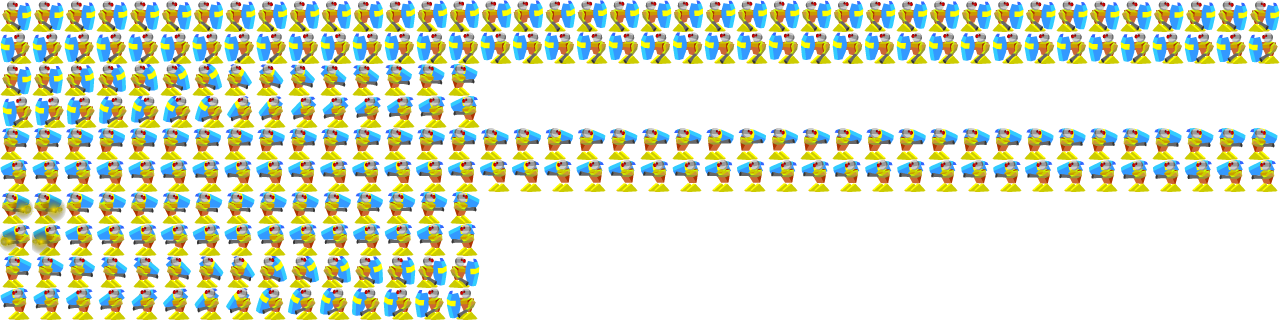
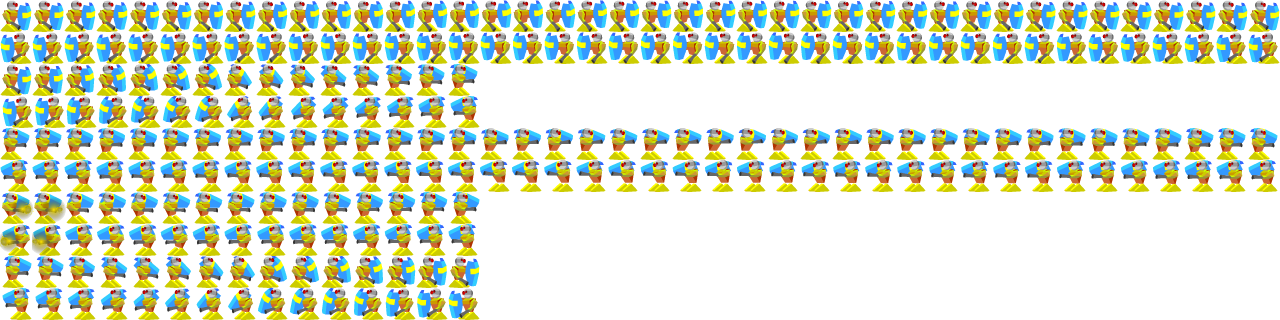
added shield dude

Changed region(s): [[0.0, 0.9062, 0.375, 1.0]]

diff --git a/MagnetBoy/MagnetBoy/MagnetBoy/ShieldDude.cs b/MagnetBoy/MagnetBoy/MagnetBoy/ShieldDude.cs
@@ -1,11 +1,212 @@
 using System;
 using System.Collections.Generic;
-using System.Linq;
 using System.Text;
+using Microsoft.Xna.Framework;
+using Microsoft.Xna.Framework.Graphics;
 
 namespace MagnetBoy
 {
-    class ShieldDude
+    class ShieldDude : Enemy
     {
+        private enum ShieldDudeState
+        {
+            DownShield,
+            UpShield,
+            MovingUp,
+            MovingDown,
+            Shooting
+        }
+
+        private ShieldDude.ShieldDudeState state;
+        private double stateTimePassed;
+        private bool facingRight;
+
+        public Vector2 ShieldDir
+        {
+            get
+            {
+                float theta = 0.0f;
+
+                if (state == ShieldDudeState.MovingUp || state == ShieldDudeState.MovingDown)
+                {
+                    theta = (float)(Math.PI / 4);
+                }
+                else if (state == ShieldDudeState.UpShield || state == ShieldDudeState.Shooting)
+                {
+                    theta = (float)(Math.PI / 2);
+                }
+
+                Vector2 dir = new Vector2((float)Math.Cos(theta), (float)Math.Sin(theta));
+
+                if (!facingRight)
+                {
+                    dir.X *= -1;
+                }
+
+                return dir;
+            }
+        }
+
+        public ShieldDude(float initalX, float initalY, bool isFacingRight) : base(initalX, initalY)
+        {
+            state = ShieldDudeState.DownShield;
+            stateTimePassed = 0;
+            facingRight = isFacingRight;
+
+            if (facingRight)
+            {
+                currentAnimation = "shieldGuyIdleRight";
+            }
+            else
+            {
+                currentAnimation = "shieldGuyIdleLeft";
+            }
+        }
+
+        protected override void enemyUpdate(GameTime currentTime)
+        {
+            //if statements are chosen over a switch so the programmer may use scope if needed
+            if (state == ShieldDudeState.DownShield)
+            {
+                stateTimePassed += currentTime.ElapsedGameTime.Milliseconds;
+
+                if (stateTimePassed > 3000)
+                {
+                    stateTimePassed = 0;
+
+                    state = ShieldDudeState.MovingUp;
+                    currentFrame = 0;
+                    lastFrameIncrement = currentTime.TotalGameTime.TotalMilliseconds;
+
+                    if (facingRight)
+                    {
+                        currentAnimation = "shieldGuyRaiseShieldRight";
+                    }
+                    else
+                    {
+                        currentAnimation = "shieldGuyRaiseShieldLeft";
+                    }
+                }
+            } //DownShield
+            else if (state == ShieldDudeState.UpShield)
+            {
+                stateTimePassed += currentTime.ElapsedGameTime.Milliseconds;
+
+                if (stateTimePassed > 10)
+                {
+                    stateTimePassed = 0;
+
+                    state = ShieldDudeState.Shooting;
+                    currentFrame = 0;
+                    lastFrameIncrement = currentTime.TotalGameTime.TotalMilliseconds;
+
+                    if (facingRight)
+                    {
+                        currentAnimation = "shieldGuyShootRight";
+                    }
+                    else
+                    {
+                        currentAnimation = "shieldGuyShootLeft";
+                    }
+                }
+            } //UpShield
+            else if (state == ShieldDudeState.MovingUp)
+            {
+                stateTimePassed += currentTime.ElapsedGameTime.Milliseconds;
+
+                if (stateTimePassed >= AnimationFactory.getAnimationFrameCount(currentAnimation) * AnimationFactory.getAnimationSpeed(currentAnimation) - 50)
+                {
+                    stateTimePassed = 0;
+
+                    state = ShieldDudeState.UpShield;
+                    currentFrame = 0;
+                    lastFrameIncrement = currentTime.TotalGameTime.TotalMilliseconds;
+
+                    if (facingRight)
+                    {
+                        currentAnimation = "shieldGuyRaisedIdleRight";
+                    }
+                    else
+                    {
+                        currentAnimation = "shieldGuyRaisedIdleLeft";
+                    }
+                }
+            } //MovingUp
+            else if (state == ShieldDudeState.MovingDown)
+            {
+                stateTimePassed += currentTime.ElapsedGameTime.Milliseconds;
+
+                if (stateTimePassed >= AnimationFactory.getAnimationFrameCount(currentAnimation) * AnimationFactory.getAnimationSpeed(currentAnimation) - 50)
+                {
+                    stateTimePassed = 0;
+
+                    state = ShieldDudeState.DownShield;
+                    currentFrame = 0;
+                    lastFrameIncrement = currentTime.TotalGameTime.TotalMilliseconds;
+
+                    if (facingRight)
+                    {
+                        currentAnimation = "shieldGuyIdleRight";
+                    }
+                    else
+                    {
+                        currentAnimation = "shieldGuyIdleLeft";
+                    }
+                }
+            } //MovingDown
+            else if (state == ShieldDudeState.Shooting)
+            {
+                if (stateTimePassed == 0)
+                {
+                    if (facingRight)
+                    {
+                        BulletPool.pushBullet(BulletPool.BulletType.Bucket, CenterPosition.X, CenterPosition.Y - 4, currentTime, 0.0f);
+                    }
+                    else
+                    {
+                        BulletPool.pushBullet(BulletPool.BulletType.Bucket, CenterPosition.X, CenterPosition.Y - 4, currentTime, (float)Math.PI);
+                    }
+                }
+
+                stateTimePassed += currentTime.ElapsedGameTime.Milliseconds;
+
+                if (stateTimePassed >= AnimationFactory.getAnimationFrameCount(currentAnimation) * AnimationFactory.getAnimationSpeed(currentAnimation) - 50)
+                {
+                    stateTimePassed = 0;
+
+                    state = ShieldDudeState.MovingDown;
+                    currentFrame = 0;
+                    lastFrameIncrement = currentTime.TotalGameTime.TotalMilliseconds;
+
+                    if (facingRight)
+                    {
+                        currentAnimation = "shieldGuyLowerShieldRight";
+                    }
+                    else
+                    {
+                        currentAnimation = "shieldGuyLowerShieldLeft";
+                    }
+                }
+            }
+
+            // if the last frame time hasn't been set, set it now
+            if (lastFrameIncrement == 0)
+            {
+                lastFrameIncrement = currentTime.TotalGameTime.TotalMilliseconds;
+            }
+
+            // update the current frame if needed
+            if (currentTime.TotalGameTime.TotalMilliseconds - lastFrameIncrement > AnimationFactory.getAnimationSpeed(currentAnimation))
+            {
+                lastFrameIncrement = currentTime.TotalGameTime.TotalMilliseconds;
+
+                currentFrame = (currentFrame + 1) % AnimationFactory.getAnimationFrameCount(currentAnimation);
+            }
+        }
+
+        public override void draw(SpriteBatch sb)
+        {
+            AnimationFactory.drawAnimationFrame(sb, currentAnimation, currentFrame, Position);
+        }
     }
 }

diff --git a/MagnetBoy/MagnetBoy/MagnetBoy/Player.cs b/MagnetBoy/MagnetBoy/MagnetBoy/Player.cs
@@ -1,4 +1,5 @@
 using System;
+using System.Diagnostics;
 using System.Collections.Generic;
 using System.Linq;
 using System.Text;
@@ -175,6 +176,24 @@ namespace MagnetBoy
 
                     if (enAngle > aAngle && enAngle < bAngle)
                     {
+                        bool flip = false;
+
+                        if (en is ShieldDude)
+                        {
+                            Vector2 pushDir = new Vector2((float)Math.Cos(directionAngle), (float)Math.Sin(directionAngle));
+                            ShieldDude dude = (ShieldDude)en;
+
+                            pushDir.X *= -1;
+
+                            // geometric property of dot product
+                            double angleBetweenForceAndShield = Math.Acos(Vector2.Dot(dude.ShieldDir, pushDir) / (dude.ShieldDir.Length() * pushDir.Length()));
+
+                            if (angleBetweenForceAndShield < Math.PI / 8)
+                            {
+                                flip = true;
+                            }
+                        }
+
                         double force = (magneticMoment * en.MagneticValue.Value) / (4 * Math.PI * Math.Pow(distance, 2));
                         double angle = Math.Atan2(en.Position.X - horizontal_pos, vertical_pos - en.Position.Y);
 
@@ -185,7 +204,14 @@ namespace MagnetBoy
                             ((Bullet)en).Direction = (float)(angle - (Math.PI/2));
                         }
 
-                        en.velocity += newForce * 10000;
+                        if (flip == false)
+                        {
+                            en.velocity += newForce * 10000;
+                        }
+                        else
+                        {
+                            velocity += Vector2.Negate(newForce) * 10000;
+                        }
                     }
                 }
 

diff --git a/MagnetBoy/MagnetBoy/MagnetBoy/LevelState.cs b/MagnetBoy/MagnetBoy/MagnetBoy/LevelState.cs
@@ -125,6 +125,12 @@ namespace MagnetBoy
                         case "wallEntity":
                             levelEntities.Add(new climbWall(obj.Bounds.X, obj.Bounds.Y));
                             break;
+                        case "shieldDudeRight":
+                            levelEntities.Add(new ShieldDude(obj.Bounds.X, obj.Bounds.Y, true));
+                            break;
+                        case "shieldDudeLeft":
+                            levelEntities.Add(new ShieldDude(obj.Bounds.X, obj.Bounds.Y, false));
+                            break;
                         default:
                             break;
                     }
